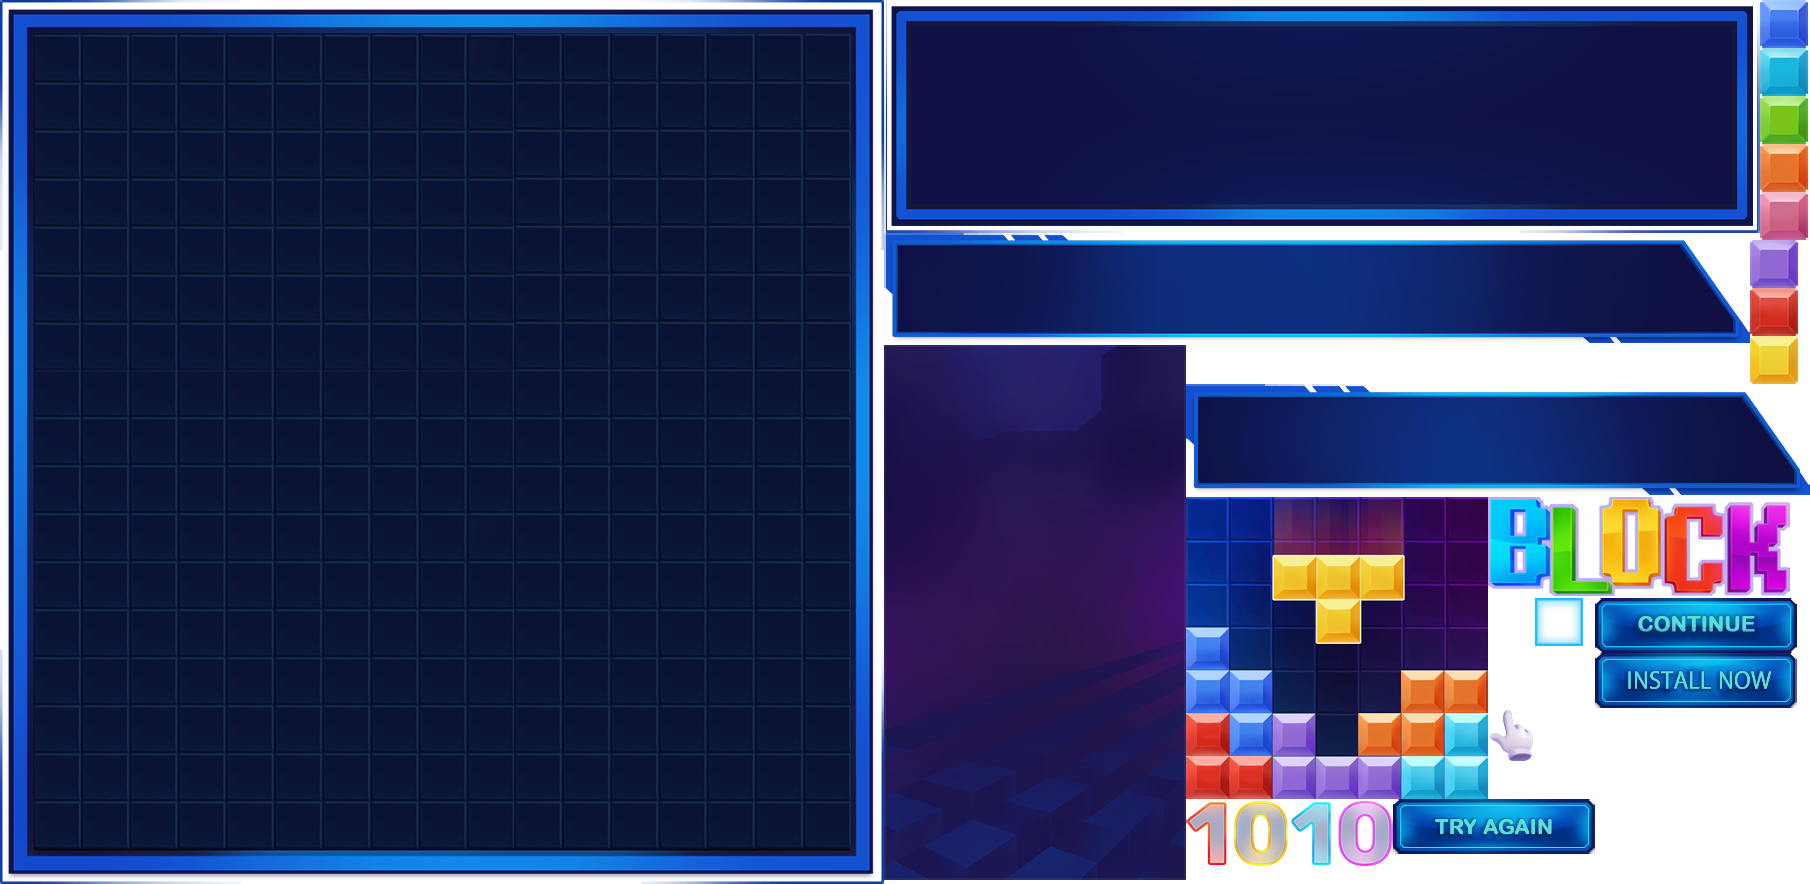
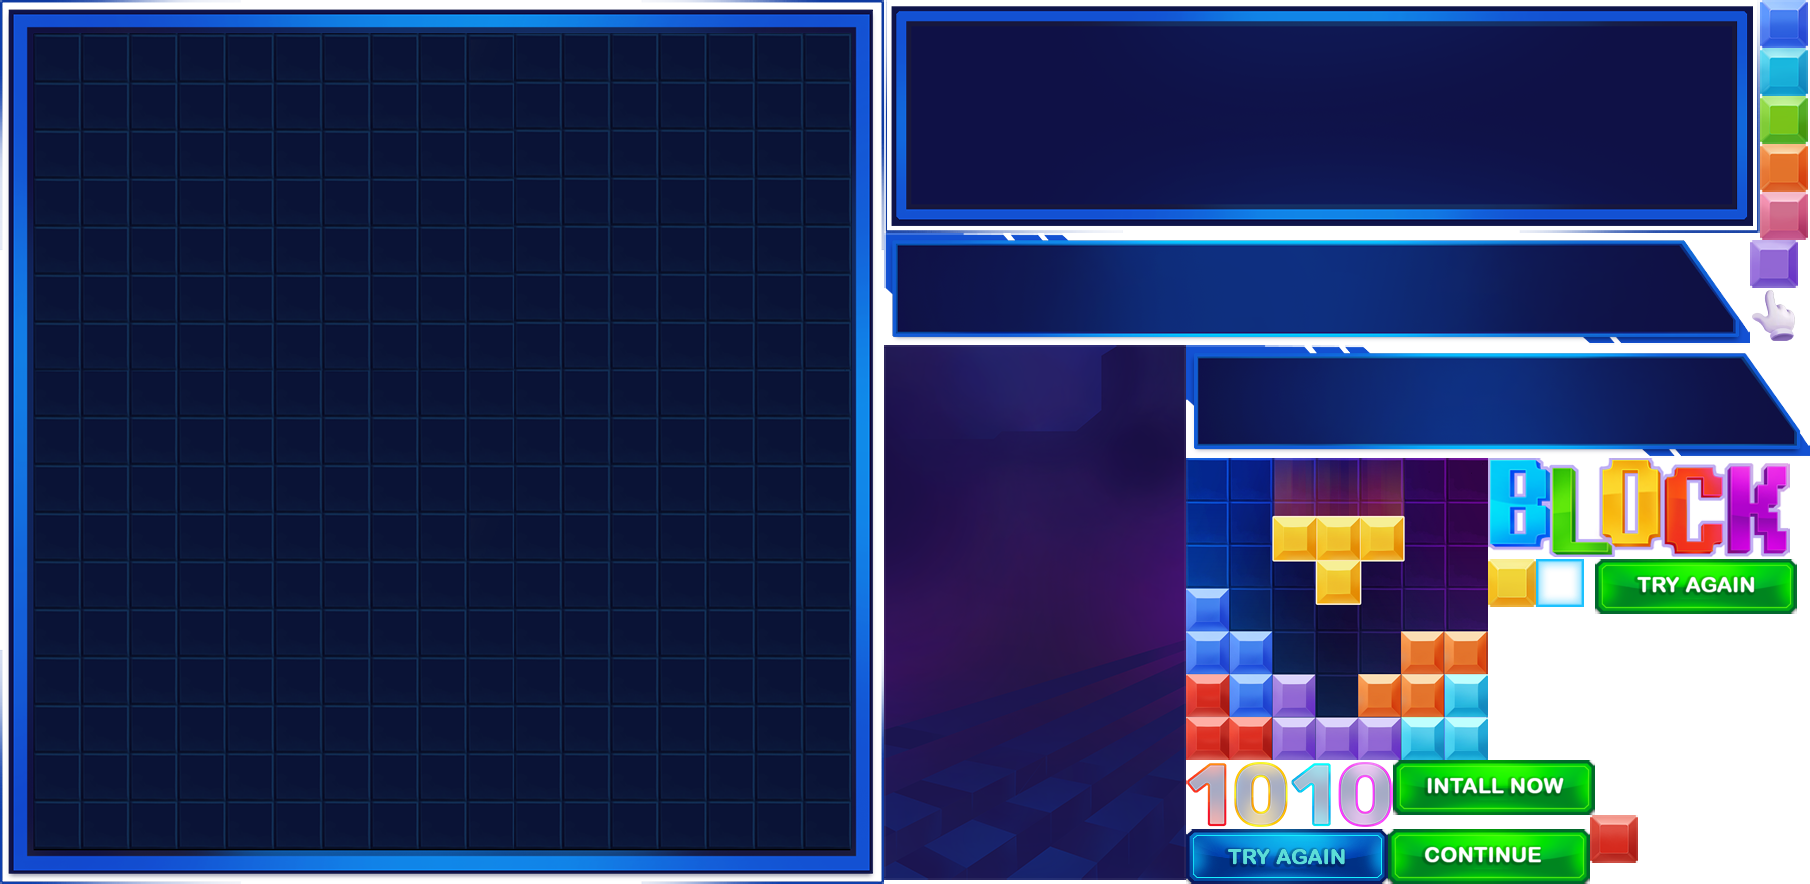
dfghjkl;

Changed region(s): [[0.6497, 0.3054, 1.0, 1.0]]

diff --git a/libs/block.js b/libs/block.js
@@ -105,23 +105,23 @@ function setAnimation() {
             [1761, 145, 46, 46, 0, 0, 0],
             [1761, 193, 46, 46, 0, 0, 0],
             [885, 234, 864, 110, 0, 0, 0],
-            [1751, 241, 46, 46, 0, 0, 0],
-            [1751, 289, 46, 46, 0, 0, 0],
-            [1751, 337, 46, 46, 0, 0, 0],
             [885, 346, 300, 533, 0, 0, 0],
-            [1187, 385, 622, 111, 0, 0, 0],
-            [1187, 498, 300, 300, 0, 0, 0],
-            [1489, 498, 300, 99, 0, 0, 0],
-            [1187, 800, 205, 67, 0, 0, 0],
-            [1394, 800, 200, 53, 0, 0, 0],
-            [1596, 599, 200, 53, 0, 0, 0],
-            [1596, 654, 200, 53, 0, 0, 0],
-            [1489, 709, 45, 53, 0, -5, -1],
-            [1536, 599, 46, 46, 0, 0, 0]
+            [1187, 346, 622, 111, 0, 0, 0],
+            [1751, 241, 46, 46, 0, 0, 0],
+            [1751, 289, 45, 53, 0, -5, -1],
+            [1187, 459, 300, 300, 0, 0, 0],
+            [1489, 459, 300, 99, 0, 0, 0],
+            [1187, 761, 205, 67, 0, 0, 0],
+            [1187, 830, 200, 53, 0, 0, 0],
+            [1389, 830, 200, 53, 0, 0, 0],
+            [1394, 761, 200, 53, 0, 0, 0],
+            [1596, 560, 200, 53, 0, 0, 0],
+            [1591, 816, 46, 46, 0, 0, 0],
+            [1489, 560, 46, 46, 0, 0, 0],
+            [1537, 560, 46, 46, 0, 0, 0]
         ],
 
         "animations": {
-            "img1010": { "frames": [15] },
             "grid": { "frames": [0] },
             "bot": { "frames": [1] },
             "block_blue": { "frames": [2] },
@@ -130,18 +130,20 @@ function setAnimation() {
             "block_orange": { "frames": [5] },
             "block_pink": { "frames": [6] },
             "score": { "frames": [7] },
-            "block_purple": { "frames": [8] },
-            "block_red": { "frames": [9] },
-            "block_yellow": { "frames": [10] },
-            "bg": { "frames": [11] },
-            "best": { "frames": [12] },
-            "logo": { "frames": [13] },
-            "vlock": { "frames": [14] },
-            "play_again": { "frames": [16] },
-            "continue": { "frames": [17] },
-            "install_now": { "frames": [18] },
-            "hand_tut": { "frames": [19] },
-            "square_hint": { "frames": [20] }
+            "bg": { "frames": [8] },
+            "best": { "frames": [9] },
+            "block_purple": { "frames": [10] },
+            "hand_tut": { "frames": [11] },
+            "logo": { "frames": [12] },
+            "vlock": { "frames": [13] },
+            "img1010": { "frames": [14] },
+            "btn_again": { "frames": [15] },
+            "continue": { "frames": [16] },
+            "install_now": { "frames": [17] },
+            "play_again": { "frames": [18] },
+            "block_red": { "frames": [19] },
+            "block_yellow": { "frames": [20] },
+            "square_hint": { "frames": [21] }
         },
     });
     setBackground();
@@ -198,25 +200,24 @@ function setBackground() {
     best.x = stage.canvas.width / 14
     best.y = stage.canvas.height / 15
 
-    console.log(isMobile);
     var bestText = new createjs.Text('BEST', "30px Haettenschweiler", "#24e6f1");
-    bestText.scaleX = ((best.getBounds().height * best.scale * 0.6) / bestText.getMeasuredHeight());
-    bestText.scaleY = bestText.scaleX / 1.3
+    bestText.scale = (stage.canvas.width / 12) / bestText.getMeasuredWidth();
     bestText.x = best.x + stage.canvas.width / 25
-    bestText.y = isMobile ? best.y + (best.getBounds().height * best.scale - bestText.getMeasuredHeight() * bestText.scaleY) / 1.5
-        : best.y + (best.getBounds().height * best.scale - bestText.getMeasuredHeight() * bestText.scaleY) / 3
+    bestText.y = best.y + (best.getBounds().height * best.scale - bestText.getMeasuredHeight() * bestText.scale) / 3
+    // bestText.y = isMobile ? best.y + (best.getBounds().height * best.scale - bestText.getMeasuredHeight() * bestText.scaleY) / 1.5
+    //     : best.y + (best.getBounds().height * best.scale - bestText.getMeasuredHeight() * bestText.scaleY) / 3
 
     var txtBesttemp = new createjs.Text(game.best, "30px Haettenschweiler", "#eaf7ff");
-    txtBesttemp.scaleX = bestText.scaleX
-    txtBesttemp.scaleY = bestText.scaleY
+    txtBesttemp.scale = bestText.scale
     txtBesttemp.x = best.x + best.getBounds().width * best.scale - stage.canvas.width / 10 - txtBesttemp.getMeasuredWidth() * txtBesttemp.scale
+    txtBesttemp.y = best.y + (best.getBounds().height * best.scale - txtBesttemp.getMeasuredHeight() * txtBesttemp.scale) / 3
 
-    txtBesttemp.y = isMobile ? best.y + (best.getBounds().height * best.scale - txtBesttemp.getMeasuredHeight() * txtBesttemp.scaleY) / 1.5
-        : best.y + (best.getBounds().height * best.scale - txtBesttemp.getMeasuredHeight() * txtBesttemp.scaleY) / 3
+    // txtBesttemp.y = isMobile ? best.y + (best.getBounds().height * best.scale - txtBesttemp.getMeasuredHeight() * txtBesttemp.scaleY) / 1.5
+    //     : best.y + (best.getBounds().height * best.scale - txtBesttemp.getMeasuredHeight() * txtBesttemp.scaleY) / 3
 
     txtBest = {
         x: best.x + best.getBounds().width * best.scale - stage.canvas.width / 10,
-        y: isMobile ? best.y + best.getBounds().height * best.scaleY / 1.5 : best.y + best.getBounds().height * best.scaleY / 3,
+        y: best.y + best.getBounds().height * best.scaleY / 3,
         txt: txtBesttemp
     }
     var score = new createjs.Sprite(spriteSheet, "score");
@@ -227,24 +228,23 @@ function setBackground() {
 
     var scoreText = new createjs.Text('SCORE', "30px Haettenschweiler", "#24e6f1");
 
-    scoreText.scaleX = bestText.scaleX
-    scoreText.scaleY = bestText.scaleY
+    scoreText.scale = bestText.scale
     scoreText.x = score.x + stage.canvas.width / 25
-
-    scoreText.y = isMobile ? score.y + (score.getBounds().height * score.scale - scoreText.getMeasuredHeight() * scoreText.scaleY) / 1.5
-        : score.y + (score.getBounds().height * score.scale - scoreText.getMeasuredHeight() * scoreText.scaleY) / 3
+    scoreText.y = score.y + (score.getBounds().height * score.scale - scoreText.getMeasuredHeight() * scoreText.scale) / 3
+    // scoreText.y = isMobile ? score.y + (score.getBounds().height * score.scale - scoreText.getMeasuredHeight() * scoreText.scaleY) / 1.5
+    //     : score.y + (score.getBounds().height * score.scale - scoreText.getMeasuredHeight() * scoreText.scaleY) / 3
 
     var txtScore = new createjs.Text(scoresTemp, "30px Haettenschweiler", "#eaf7ff");
 
-    txtScore.scaleX = bestText.scaleX
-    txtScore.scaleY = bestText.scaleY
+    txtScore.scale = bestText.scale
     txtScore.x = score.x + score.getBounds().width * score.scale - stage.canvas.width / 10 - txtScore.getMeasuredWidth() * txtScore.scale
 
-    txtScore.y = isMobile ? score.y + (score.getBounds().height * score.scale - txtScore.getMeasuredHeight() * txtScore.scaleY) / 1.5
-        : score.y + (score.getBounds().height * score.scale - txtScore.getMeasuredHeight() * txtScore.scaleY) / 3
+    txtScore.y = score.y + (score.getBounds().height * score.scale - txtScore.getMeasuredHeight() * txtScore.scale) / 3
+    // txtScore.y = isMobile ? score.y + (score.getBounds().height * score.scale - txtScore.getMeasuredHeight() * txtScore.scaleY) / 1.5
+    //     : score.y + (score.getBounds().height * score.scale - txtScore.getMeasuredHeight() * txtScore.scaleY) / 3
     txtScores = {
         x: score.x + score.getBounds().width * score.scale - stage.canvas.width / 10,
-        y: isMobile ? score.y + score.getBounds().height * score.scaleY / 1.5 : score.y + score.getBounds().height * score.scaleY / 3,
+        y: score.y + score.getBounds().height * score.scaleY / 3,
         txt: txtScore
     }
 
@@ -705,35 +705,34 @@ function endGame() {
         removeAllEvent()
         var particle = new createjs.Shape();
         particle.graphics.f("#fafafa").dr(0, 0, stage.canvas.width, stage.canvas.height);
-        particle.alpha = 0.4
+        particle.alpha = 0.7
 
         var bgcore = new createjs.Shape();
         bgcore.graphics.lf(["#2d3779", "#58407b"], [0, 1], stage.canvas.width / 4, 0, stage.canvas.width / 4, stage.canvas.height / 5);
-        bgcore.graphics.rc(0, 0, stage.canvas.width / 2, stage.canvas.height / 5, stage.canvas.width / 50, stage.canvas.width / 50, stage.canvas.width / 50, stage.canvas.width / 50);
-        bgcore.x = (stage.canvas.width - stage.canvas.width / 2) / 2
-        bgcore.y = stage.canvas.height / 4.7
+        bgcore.graphics.rc(0, 0, stage.canvas.width / 1.7, stage.canvas.height / 4.5, stage.canvas.width / 50, stage.canvas.width / 50, stage.canvas.width / 50, stage.canvas.width / 50);
+        bgcore.x = (stage.canvas.width - stage.canvas.width / 1.7) / 2
+        bgcore.y = stage.canvas.height / 3.3
         bgcore.alpha = 1
 
-        var best = new createjs.Text('BEST', "Italic 30px Impact", "#ffffff");
-        best.scale = (stage.canvas.width / 7) / best.getMeasuredWidth()
+        var txt = game.scores > game.best ? "BEST" : "Your Score"
+        var best = new createjs.Text(txt, "30px Impact", "#ffffff");
+        best.scale = game.scores > game.best ? (stage.canvas.width / 6.5) / best.getMeasuredWidth() : (stage.canvas.width / 3) / best.getMeasuredWidth()
         best.x = (stage.canvas.width - best.getMeasuredWidth() * best.scale) / 2
         best.y = bgcore.y + best.getMeasuredHeight() * best.scale
         var text = new createjs.Text(game.scores, "30px Impact", "#ffffff");
         if (game.scores < 1000) {
-            text.scale = (stage.canvas.width / 6.5) / text.getMeasuredWidth()
-            text.x = (stage.canvas.width - text.getMeasuredWidth() * text.scale) / 2
-            text.y = bgcore.y * 2 - text.getMeasuredHeight() * text.scale * 1.6
+            text.scale = (stage.canvas.width / 5) / text.getMeasuredWidth()
         } else {
-            text.scale = (stage.canvas.width / 5.5) / text.getMeasuredWidth()
-            text.x = (stage.canvas.width - text.getMeasuredWidth() * text.scale) / 2
-            text.y = bgcore.y * 2 - text.getMeasuredHeight() * text.scale * 1.8
+            text.scale = (stage.canvas.width / 4.4) / text.getMeasuredWidth()
         }
+        text.y = best.y + best.getMeasuredHeight() * best.scale * 2
+        text.x = (stage.canvas.width - text.getMeasuredWidth() * text.scale) / 2
 
 
         var play_again = new createjs.Sprite(spriteSheet, "play_again");
         play_again.scale = (stage.canvas.width / 2.7) / play_again.getBounds().width
         play_again.x = (stage.canvas.width - play_again.getBounds().width * play_again.scale) / 2
-        play_again.y = text.y + play_again.getBounds().height * play_again.scale * 2.5
+        play_again.y = text.y + play_again.getBounds().height * play_again.scale * 3.5
 
         stage.addChild(particle, bgcore, best, text, play_again);
 
@@ -934,13 +933,12 @@ function updateScore() {
         scoresTemp += 1;
         if (scoresTemp <= game.scores) {
             txtScores.txt.x = txtScores.x - txtScores.txt.getMeasuredWidth() * txtScores.txt.scale;
-            txtScores.txt.y = isMobile ? txtScores.y - txtScores.txt.getMeasuredHeight() * txtScores.txt.scaleY / 1.5 : txtScores.y - txtScores.txt.getMeasuredHeight() * txtScores.txt.scaleY / 3;
+            txtScores.txt.y = txtScores.y - txtScores.txt.getMeasuredHeight() * txtScores.txt.scaleY / 3;
             txtScores.txt.text = scoresTemp;
             if (scoresTemp > game.best) {
-                F
                 game.best = scoresTemp
                 txtBest.txt.x = txtBest.x - txtBest.txt.getMeasuredWidth() * txtBest.scale;
-                txtBest.txt.y = isMobile ? txtBest.y - txtBest.txt.getMeasuredHeight() * txtBest.txt.scaleY / 1.5 : txtBest.y - txtBest.txt.getMeasuredHeight() * txtBest.txt.scaleY / 3;
+                txtBest.txt.y = txtBest.y - txtBest.txt.getMeasuredHeight() * txtBest.txt.scaleY / 3;
                 txtBest.txt.text = scoresTemp;
             }
         }
